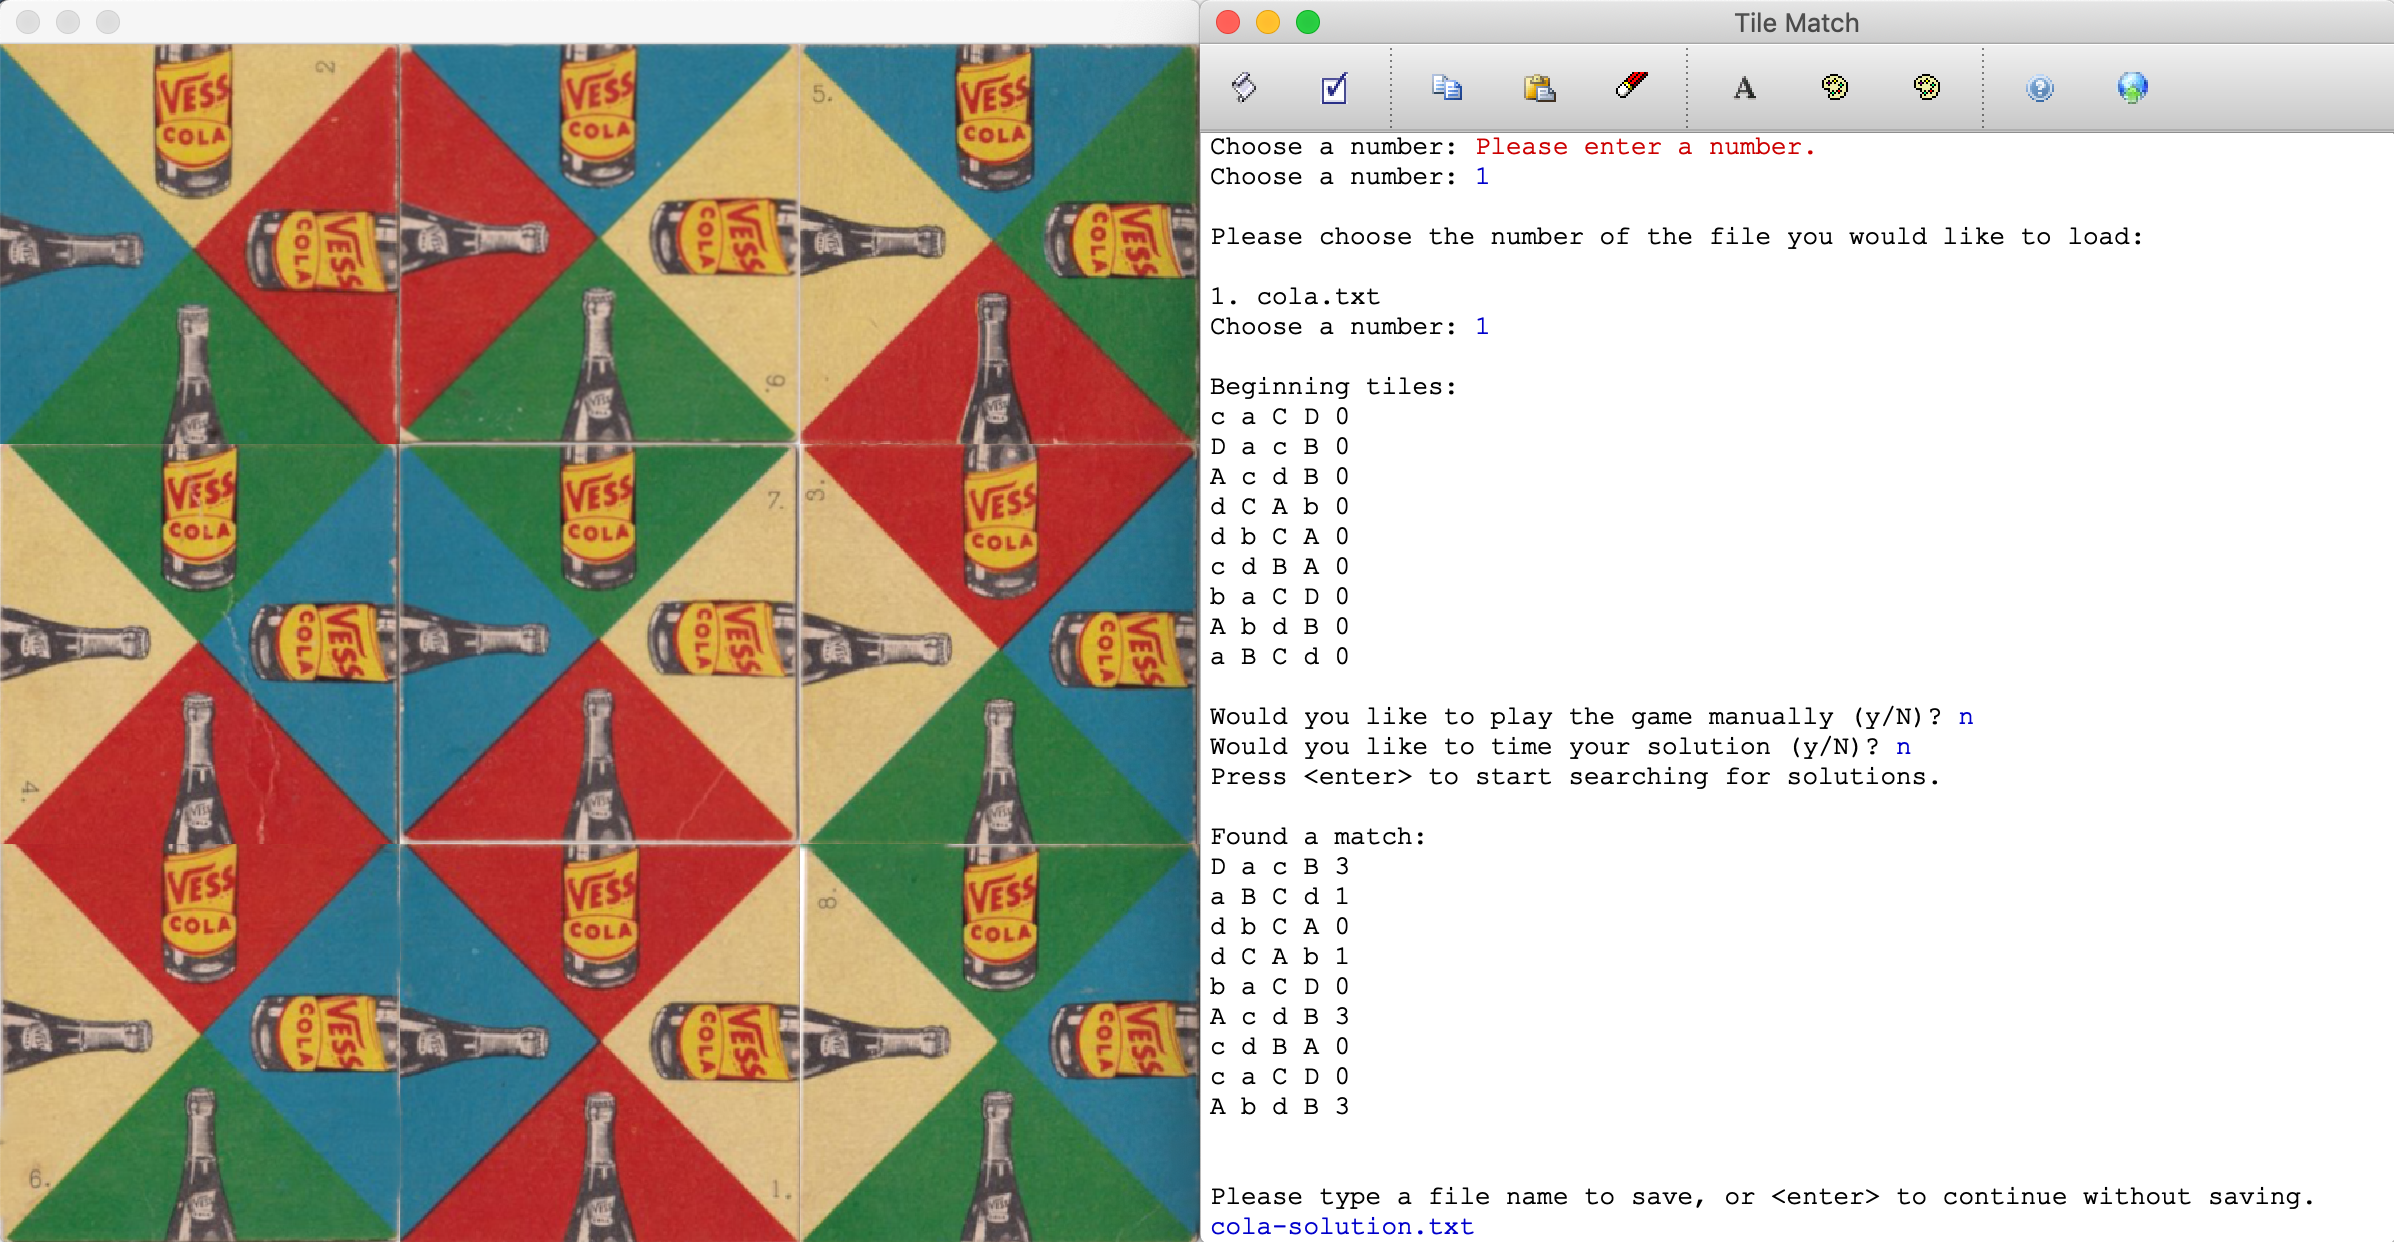
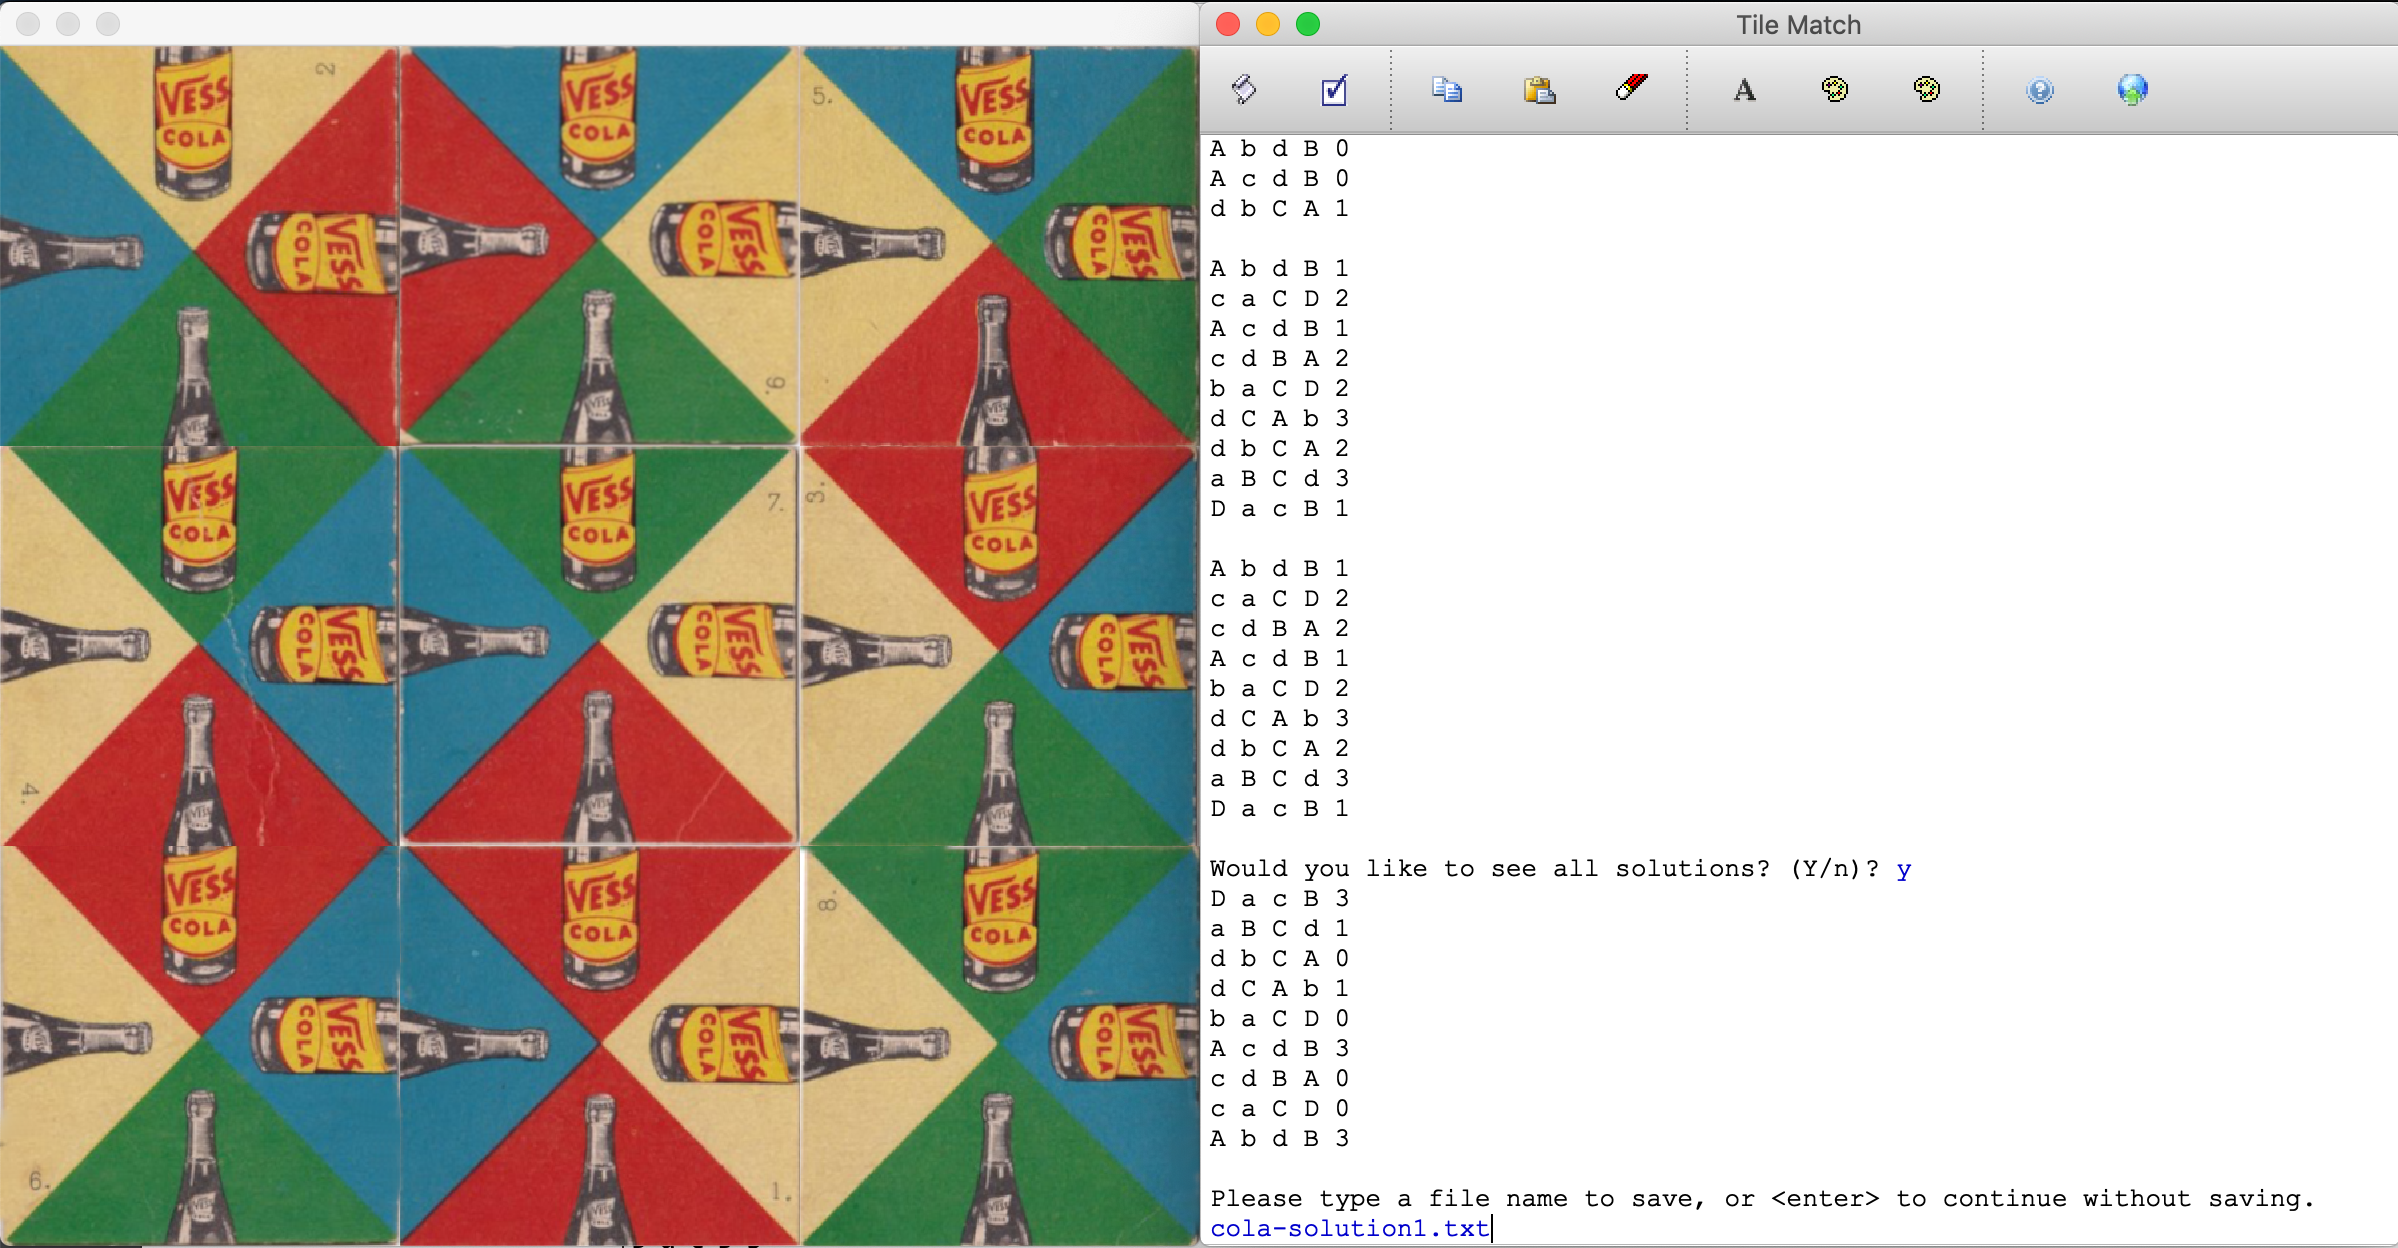
updated files after refactoring

diff --git a/WriteUp/write-up.html b/WriteUp/write-up.html
@@ -51,7 +51,7 @@ Image source: <a href="http://www.robspuzzlepage.com/pattern.htm">Rob’s Puzzle
 </ol>
 <h1 id="puzzle-overview">Puzzle Overview</h1>
 <p>The Edge-Matching puzzles we will look at are 3x3 square tile puzzles where each tile can be in any of four positions on the board, and in any of the nine available positions. The user can play the game manually with the mouse, or they can solve the puzzles in one of two ways: either timed or one-at-a-time. If the game is played manually, clicking on a tile will rotate it one position clockwise, and dragging a tile on top of another tile will swap the two tiles and retain their current orientation. When the player solves the game, a message alert appears to congratulate the player.</p>
-<p>When the user decides to time the solutions, all solutions are found at once, and an overall time to find all the solutions is shown. When the user decides to find the solutions one at a time, each solution is found and displayed, and the user has the choice to save the solution in a form that can be re-loaded later.</p>
+<p>When the user decides to find the solutions, all solutions are found at once, and an overall time to find all the solutions is shown. The user can then choose to see the solutions one at a time. Each solution is then found and displayed, and the user has the choice to save the solution in a form that can be re-loaded later.</p>
 <p>When the program begins, the user is given a choice of which puzzle they want to play. The available puzzles have been curated from a number of sources – some are actual photographs of vintage games, and some are computer-generated. After choosing a puzzle, the player gets to further choose a starting orientation. Some puzzles have solved orientations, and others have almost-solved starting orientations.</p>
 <center>
 <td>
@@ -69,7 +69,7 @@ Image source: <a href="http://www.robspuzzlepage.com/pattern.htm">Rob’s Puzzle
 <br> Playing Manually
 <p>
 </center>
-<p>Once the player is done trying to solve the puzzle manually, typing any key on the keyboard will produce another menu to allow timed or single solutions:</p>
+<p>Once the player is done trying to solve the puzzle manually, typing any key on the keyboard will produce another menu to begin finding solutions:</p>
 <center>
 <td>
 <img alt = "Timed Solution" src="https://web.stanford.edu/~cgregg/EdgeMatch/timed-solution.png" style="width: 100%;">
@@ -212,13 +212,14 @@ The orientation of a tile. <code>0</code> is the original image orientation, <co
 </tr>
 <tr>
 <td>
-<code>vector&lt;string&gt; sides</code>
+<code>Vector&lt;string&gt; sides</code>
 </td>
 <td>
-A <code>vector</code> that holds the string values (e.g., <code>A</code>). The <code>vector</code> should hold the values in the order they appear the text representation, e.g., for <code>A B a b 0</code>, the <code>vector</code> should have the values in the order <code>A</code> then <code>B</code> then <code>a</code> then <code>b</code>.
+A <code>Vector</code> that holds the string values (e.g., <code>A</code>). The <code>Vector</code> should hold the values in the order they appear the text representation, e.g., for <code>A B a b 0</code>, the <code>Vector</code> should have the values in the order <code>A</code> then <code>B</code> then <code>a</code> then <code>b</code>.
 </td>
 </tr>
 </table>
+<h1 id="edge-match.cpp"><code>edge-match.cpp</code></h1>
         </div>
     </body>
 </html>

diff --git a/src/edge-match.cpp b/src/edge-match.cpp
@@ -82,7 +82,11 @@ Vector<Grid<Tile>> solvePuzzle(TileGrid& tg) {
 }
 
 /* function findAllSolutions (recursive)
- *
+ * @param tileVec Vector of tiles, used for populating a grid for backtracking
+ * @param tiles Grid of tiles, used to hold a puzzle of tiles, and for checking solutions
+ * @param row The current row we are analyzing
+ * @param col The current column we are analyzing
+ * @param solutions A Vector of tile grids that will hold all solutions
  */
 void findAllSolutions(Vector<Tile>& tileVec, Grid<Tile>& tiles, int row,
                       int col, Vector<Grid<Tile>>& solutions) {
@@ -138,94 +142,38 @@ void findAllSolutions(Vector<Tile>& tileVec, Grid<Tile>& tiles, int row,
     }
 }
 
-/* function solvePuzzle (recursive)
- * @param elements Vector of tiles, used for populating a grid for backtracking
- * @param row The current row we are analyzing
- * @param col The current column we are analyzing
- * @param tg A reference to a TileGrid instance
- * @param solutions A Vector of tile grids that will hold all solutions
- * @param timeIt true if the puzzle solution is being timed, false if not
+/* function displayAndSaveSolutions
+ * This function displays one solution at a time and asks the user
+ * if they want to save the solution. If the user does want to
+ * save the solution, calls the saveGrid() function of tg with the
+ * user supplied filename.
+ *
+ * @param tg A TileGrid object
+ * @param solutions The vector of all solutions
  */
-void solvePuzzle(Vector<Tile>& tileVec, int row, int col, TileGrid& tg,
-                 Vector<Grid<Tile>>& solutions, bool timeIt) {
-    Grid<Tile>& tiles = tg.getGrid();
-    if (tileVec.size() == 0) {
-        // found potential solution
-        if (!timeIt) {
-            tg.drawTiles();
-        }
+void displayAndSaveSolutions(TileGrid& tg, Vector<Grid<Tile>>& solutions) {
+    for (Grid<Tile> tiles : solutions) {
+        tg.replaceGrid(tiles);
+        cout << tg.toString() << endl;
 
-        bool matched = allMatch(tiles);
-        if (matched) {
-            if (!timeIt) {
-                cout << "Found a match:" << endl;
-                cout << tg.toString() << endl << endl;
-            }
-
-            solutions.add(tiles);
-
-            if (!timeIt) {
-                string filename =
-                    getLine("Please type a file name to save, or <enter> "
-                            "to continue without saving.");
-                if (filename != "") {
-                    if (tg.saveGrid(filename)) {
-                        cout << "'" << filename << "'"
-                             << " saved.";
-                    } else {
-                        cout << "Could not open file for saving.";
-                    }
-                }
-                cout << endl;
-            }
-        }
-    } else {
-        // for each tile in the vector, remove the tile, and put it at the
-        // current position
-        int newCol = col + 1;
-        int newRow = row;
-        if (newCol == tiles.numCols()) {
-            newCol = 0;
-            newRow++;
-        }
-        for (int i = 0; i < tileVec.size(); i++) {
-            for (int orientation = 0; orientation < 4; orientation++) {
-                // add to grid
-                Tile t = tileVec[i];
-                Tile origTile = tiles[row][col];
-                int origOrientation = t.getOrientation();
-                t.setOrientation(orientation);
-                tileVec.remove(i);
-                tiles[row][col] = t;
-
-                // recurse otherwise because we will never find a match
-                bool canRecurse = true;
-
-                if (tiles.inBounds(row - 1, col) &&
-                    !tiles[row][col].isMatched(tiles[row - 1][col],
-                                               Tile::ABOVE)) {
-                    canRecurse = false;
-                }
-
-                if (tiles.inBounds(row, col - 1) &&
-                    !tiles[row][col].isMatched(tiles[row][col - 1],
-                                               Tile::LEFT)) {
-                    canRecurse = false;
-                }
-                if (canRecurse) {
-                    solvePuzzle(tileVec, newRow, newCol, tg, solutions, timeIt);
-                }
-
-                // re-orient and replace
-                t.setOrientation(origOrientation);
-                tileVec.insert(i, t);
-                tiles[row][col] = origTile;
+        string filename =
+            getLine("Please type a file name to save, or <enter> to "
+                    "continue without saving.");
+        if (filename != "") {
+            if (tg.saveGrid(filename)) {
+                cout << "'" << filename << "'"
+                     << " saved.";
+            } else {
+                cout << "Could not open file for saving.";
             }
         }
     }
 }
 
-/* Feel free to investigate the functions below, but you should not modify them
+/* Feel free to investigate the functions below, but you should not modify them */
+
+/* function init
+ * Initializes the board, and runs the program loop.
  */
 void init() {
     while (1) {
@@ -267,6 +215,12 @@ void init() {
     cout << "Thank you for plaing the tile match game!" << endl;
 }
 
+/* function solveAndTimePuzzle
+ * Times how long it takes to find solutions, and prints out all solutions
+ *
+ * @param tg The TileGrid object
+ * @param solutions A vector of all solutions
+ */
 void solveAndTimePuzzle(TileGrid& tg, Vector<Grid<Tile>>& solutions) {
     Timer t;
     getLine("Press <enter> to start searching for solutions.");
@@ -281,6 +235,12 @@ void solveAndTimePuzzle(TileGrid& tg, Vector<Grid<Tile>>& solutions) {
     cout << "Found " << solutions.size() << " solutions:" << endl;
 }
 
+/* function loadPuzzle
+ * Finds all puzzles and lets the user choose one.
+ *
+ * @param tg The TileGrid object
+ * @return True if a puzzle was successfully loaded, false otherwise
+ */
 bool loadPuzzle(TileGrid& tg) {
     // list puzzle directories
     int i = 0;
@@ -336,6 +296,12 @@ bool loadPuzzle(TileGrid& tg) {
     return true;
 }
 
+/* function manualPlay
+ * Asks the user if they want to play manually, and then creates a PlayGame
+ * instance to play the game.
+ *
+ * @param tg The TileGrid object
+ */
 void manualPlay(TileGrid& tg, bool& donePlayingManually) {
     string response =
         getLine("Would you like to play the game manually (y/N)? ");
@@ -352,21 +318,3 @@ void manualPlay(TileGrid& tg, bool& donePlayingManually) {
     }
 }
 
-void displayAndSaveSolutions(TileGrid& tg, Vector<Grid<Tile>>& solutions) {
-    for (Grid<Tile> tiles : solutions) {
-        tg.replaceGrid(tiles);
-        cout << tg.toString() << endl;
-
-        string filename =
-            getLine("Please type a file name to save, or <enter> to "
-                    "continue without saving.");
-        if (filename != "") {
-            if (tg.saveGrid(filename)) {
-                cout << "'" << filename << "'"
-                     << " saved.";
-            } else {
-                cout << "Could not open file for saving.";
-            }
-        }
-    }
-}

diff --git a/README.md b/README.md
@@ -29,7 +29,7 @@ You will turn in the following files:
 
 The Edge-Matching puzzles we will look at are 3x3 square tile puzzles where each tile can be in any of four positions on the board, and in any of the nine available positions. The user can play the game manually with the mouse, or they can solve the puzzles in one of two ways: either timed or one-at-a-time. If the game is played manually, clicking on a tile will rotate it one position clockwise, and dragging a tile on top of another tile will swap the two tiles and retain their current orientation. When the player solves the game, a message alert appears to congratulate the player.
 
-When the user decides to time the solutions, all solutions are found at once, and an overall time to find all the solutions is shown. When the user decides to find the solutions one at a time, each solution is found and displayed, and the user has the choice to save the solution in a form that can be re-loaded later.
+When the user decides to find the solutions, all solutions are found at once, and an overall time to find all the solutions is shown. The user can then choose to see the solutions one at a time. Each solution is then found and displayed, and the user has the choice to save the solution in a form that can be re-loaded later.
 
 When the program begins, the user is given a choice of which puzzle they want to play. The available puzzles have been curated from a number of sources -- some are actual photographs of vintage games, and some are computer-generated. After choosing a puzzle, the player gets to further choose a starting orientation. Some puzzles have solved orientations, and others have almost-solved starting orientations.
 
@@ -47,7 +47,7 @@ The console window also shows the beginning layout and orientation of the tiles.
 Playing Manually<p>
 </center>
 
-Once the player is done trying to solve the puzzle manually, typing any key on the keyboard will produce another menu to allow timed or single solutions:
+Once the player is done trying to solve the puzzle manually, typing any key on the keyboard will produce another menu to begin finding solutions:
 
 <center>
 <td><img alt = "Timed Solution" src="https://web.stanford.edu/~cgregg/EdgeMatch/timed-solution.png" style="width: 100%;"></td><br>
